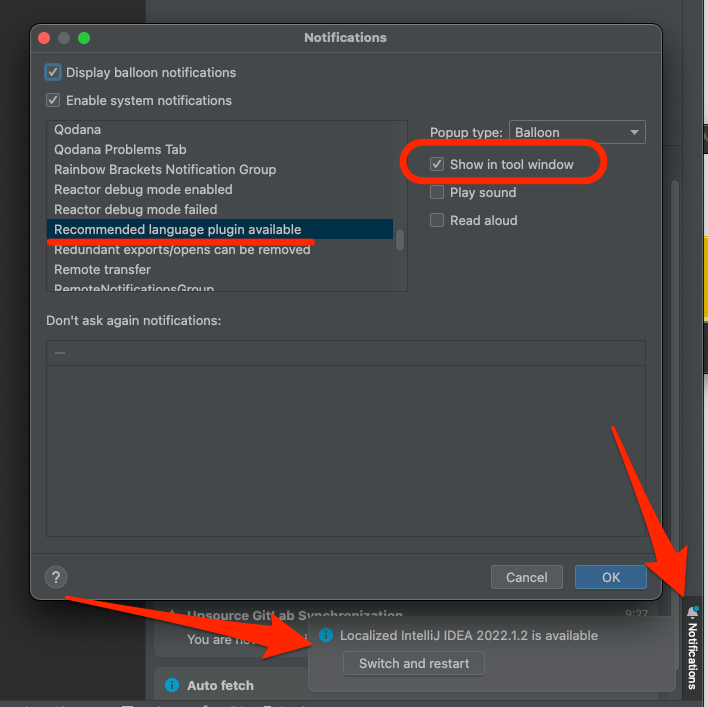
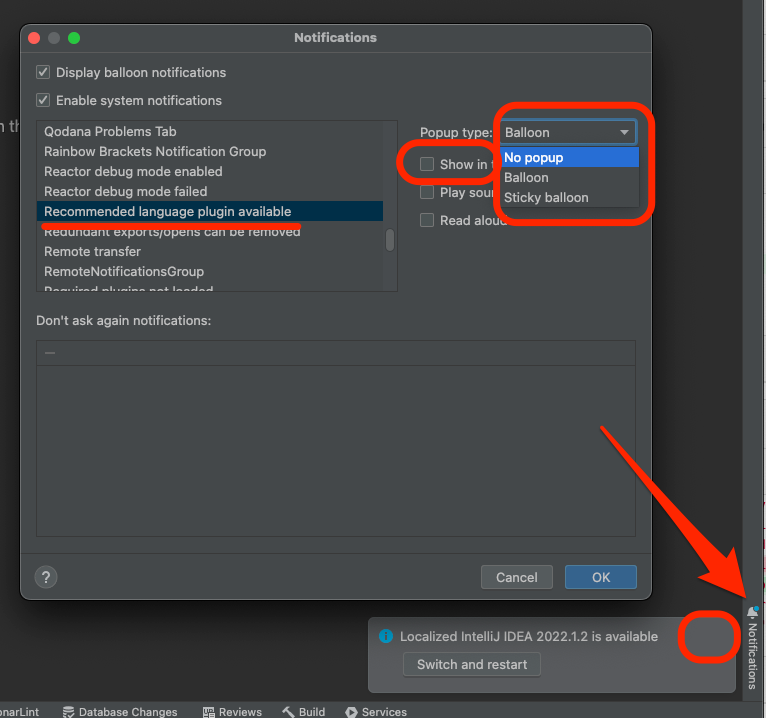
Updates

Changed region(s): [[0.0, 0.0, 1.0, 1.0], [0.7768, 0.5912, 0.8079, 0.6223]]

diff --git a/_posts/2022-06-11-intellij-change-language-from-korean-to-english.md b/_posts/2022-06-11-intellij-change-language-from-korean-to-english.md
@@ -21,8 +21,10 @@ IntelliJ가 정상 동작을 하지 않거나 추가 설정이 필요할 때 검
 
 {% include image.html file='/assets/img/2022/2022-06-11-intellij-change-language-from-korean-to-english2.png' alt='Turn off language pack plugin recommendation tool window' %}
 
-이 때 알림 오른쪽 위에 있는 설정(톱니바퀴)를 눌러서 알림 자체를 꺼버리면 혹시라도 잘못 설치되는 경우를 방지할 수 있다.
-`Notifications 설정` > `Recommended language plugin available` > `Show in tool window` 체크를 해제한다.
+이 때 알림 오른쪽 위에 있는 설정(톱니바퀴)를 눌러서 알림 자체를 꺼버리면 혹시라도 잘못 설치되는 경우를 방지할 수 있다. 스크린샷에는 안 보이지만 알림 풍선 오른쪽 위에 마우스를 올리면 톱니바퀴 버튼이 보인다. 이 버튼을 눌러서 `Notifications 설정`창을 열고,`Recommended language plugin available` 선택
+
+- `Show in tool window` 체크를 해제
+- `Popup type`으로 `No popup` 선택
 
 
 # 참고
